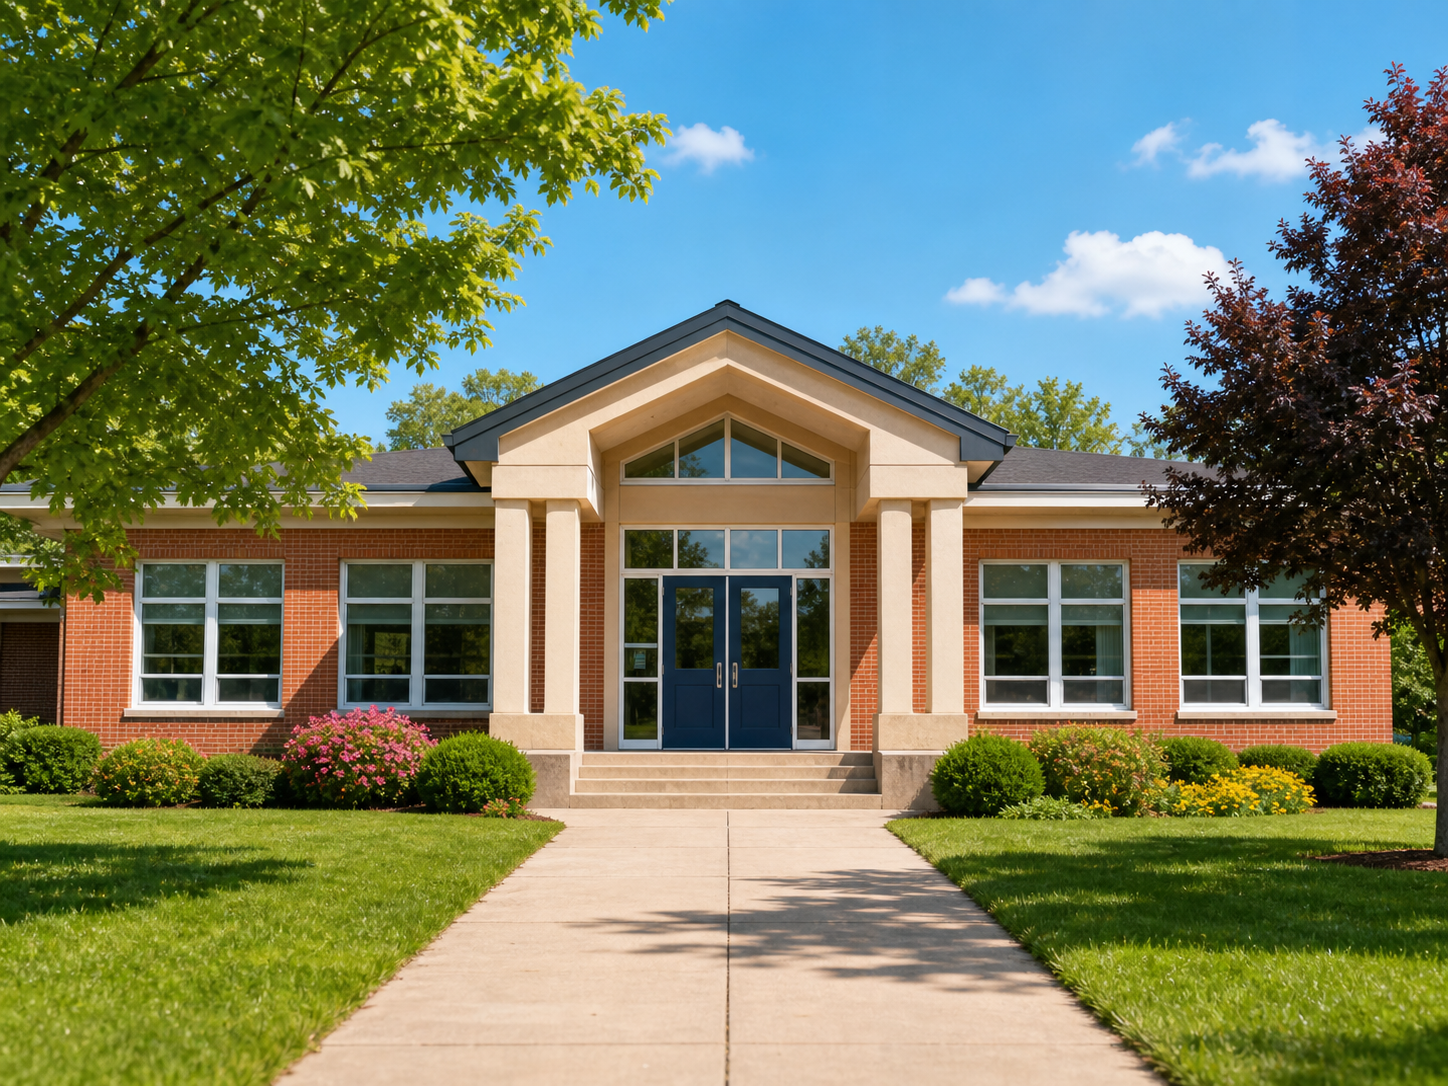
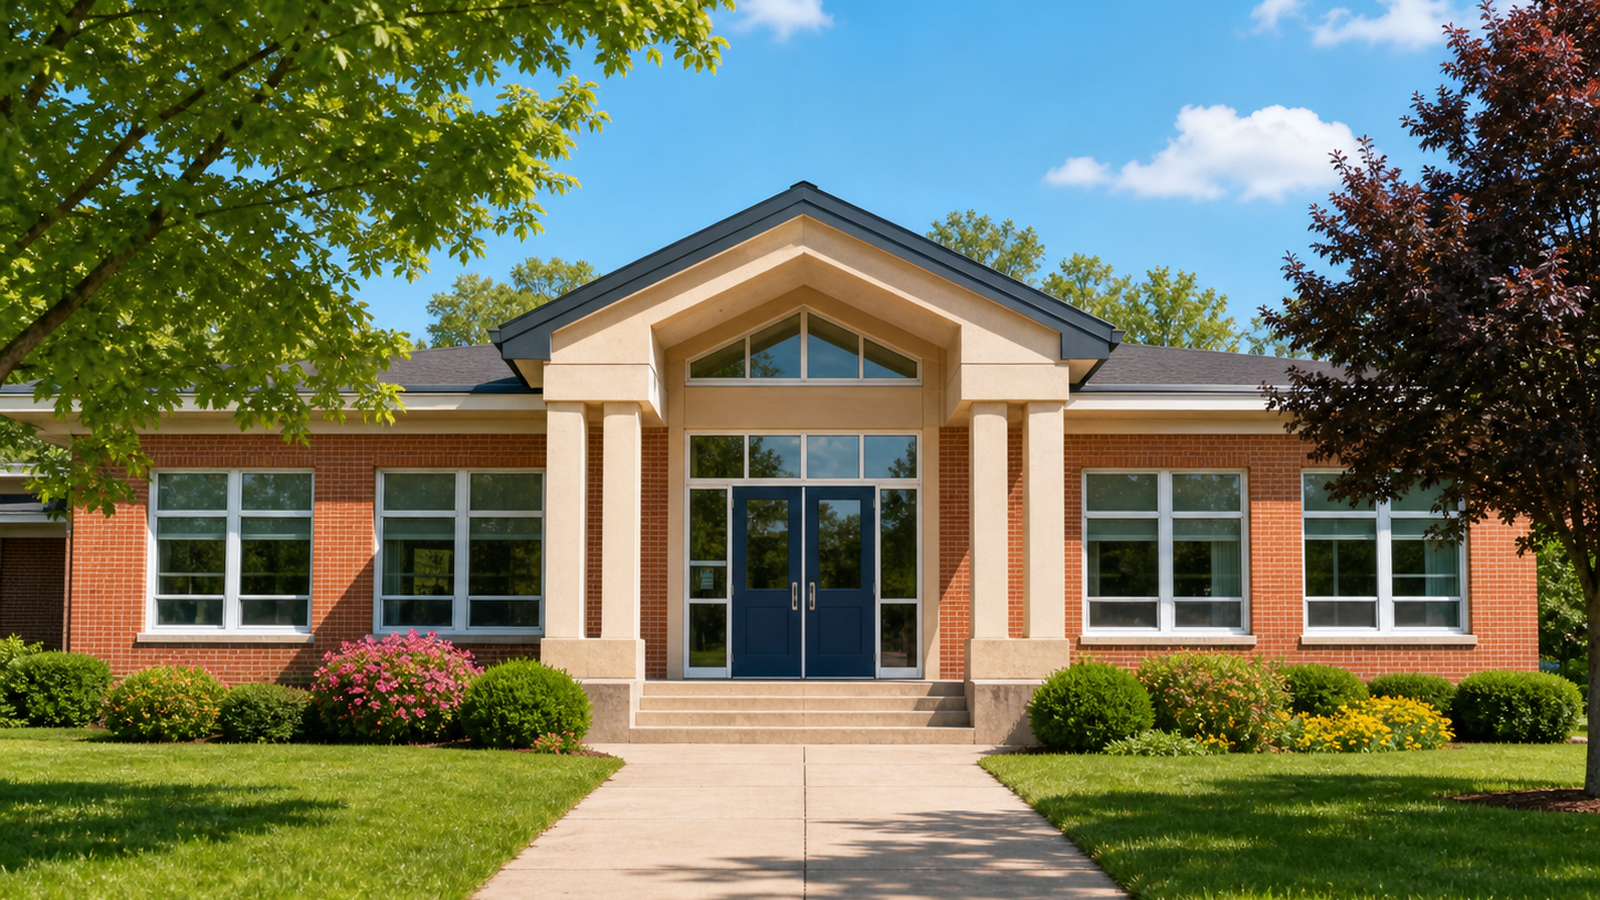
Standardize place images to equal frames

diff --git a/backend/app/data.py b/backend/app/data.py
@@ -20,7 +20,9 @@ def image_url(name: str) -> str:
         cache_version = "?v=20260802-boy-man-age-distinction-v1"
     elif image_name == "place_park.webp":
         cache_version = "?v=20260802-kids-playground-park-v1"
-    elif image_name.startswith(("place_", "object_")):
+    elif image_name.startswith("place_"):
+        cache_version = "?v=20260802-uniform-place-frames-v1"
+    elif image_name.startswith("object_"):
         cache_version = "?v=20260801-objects-places-v2"
     else:
         cache_version = ""
